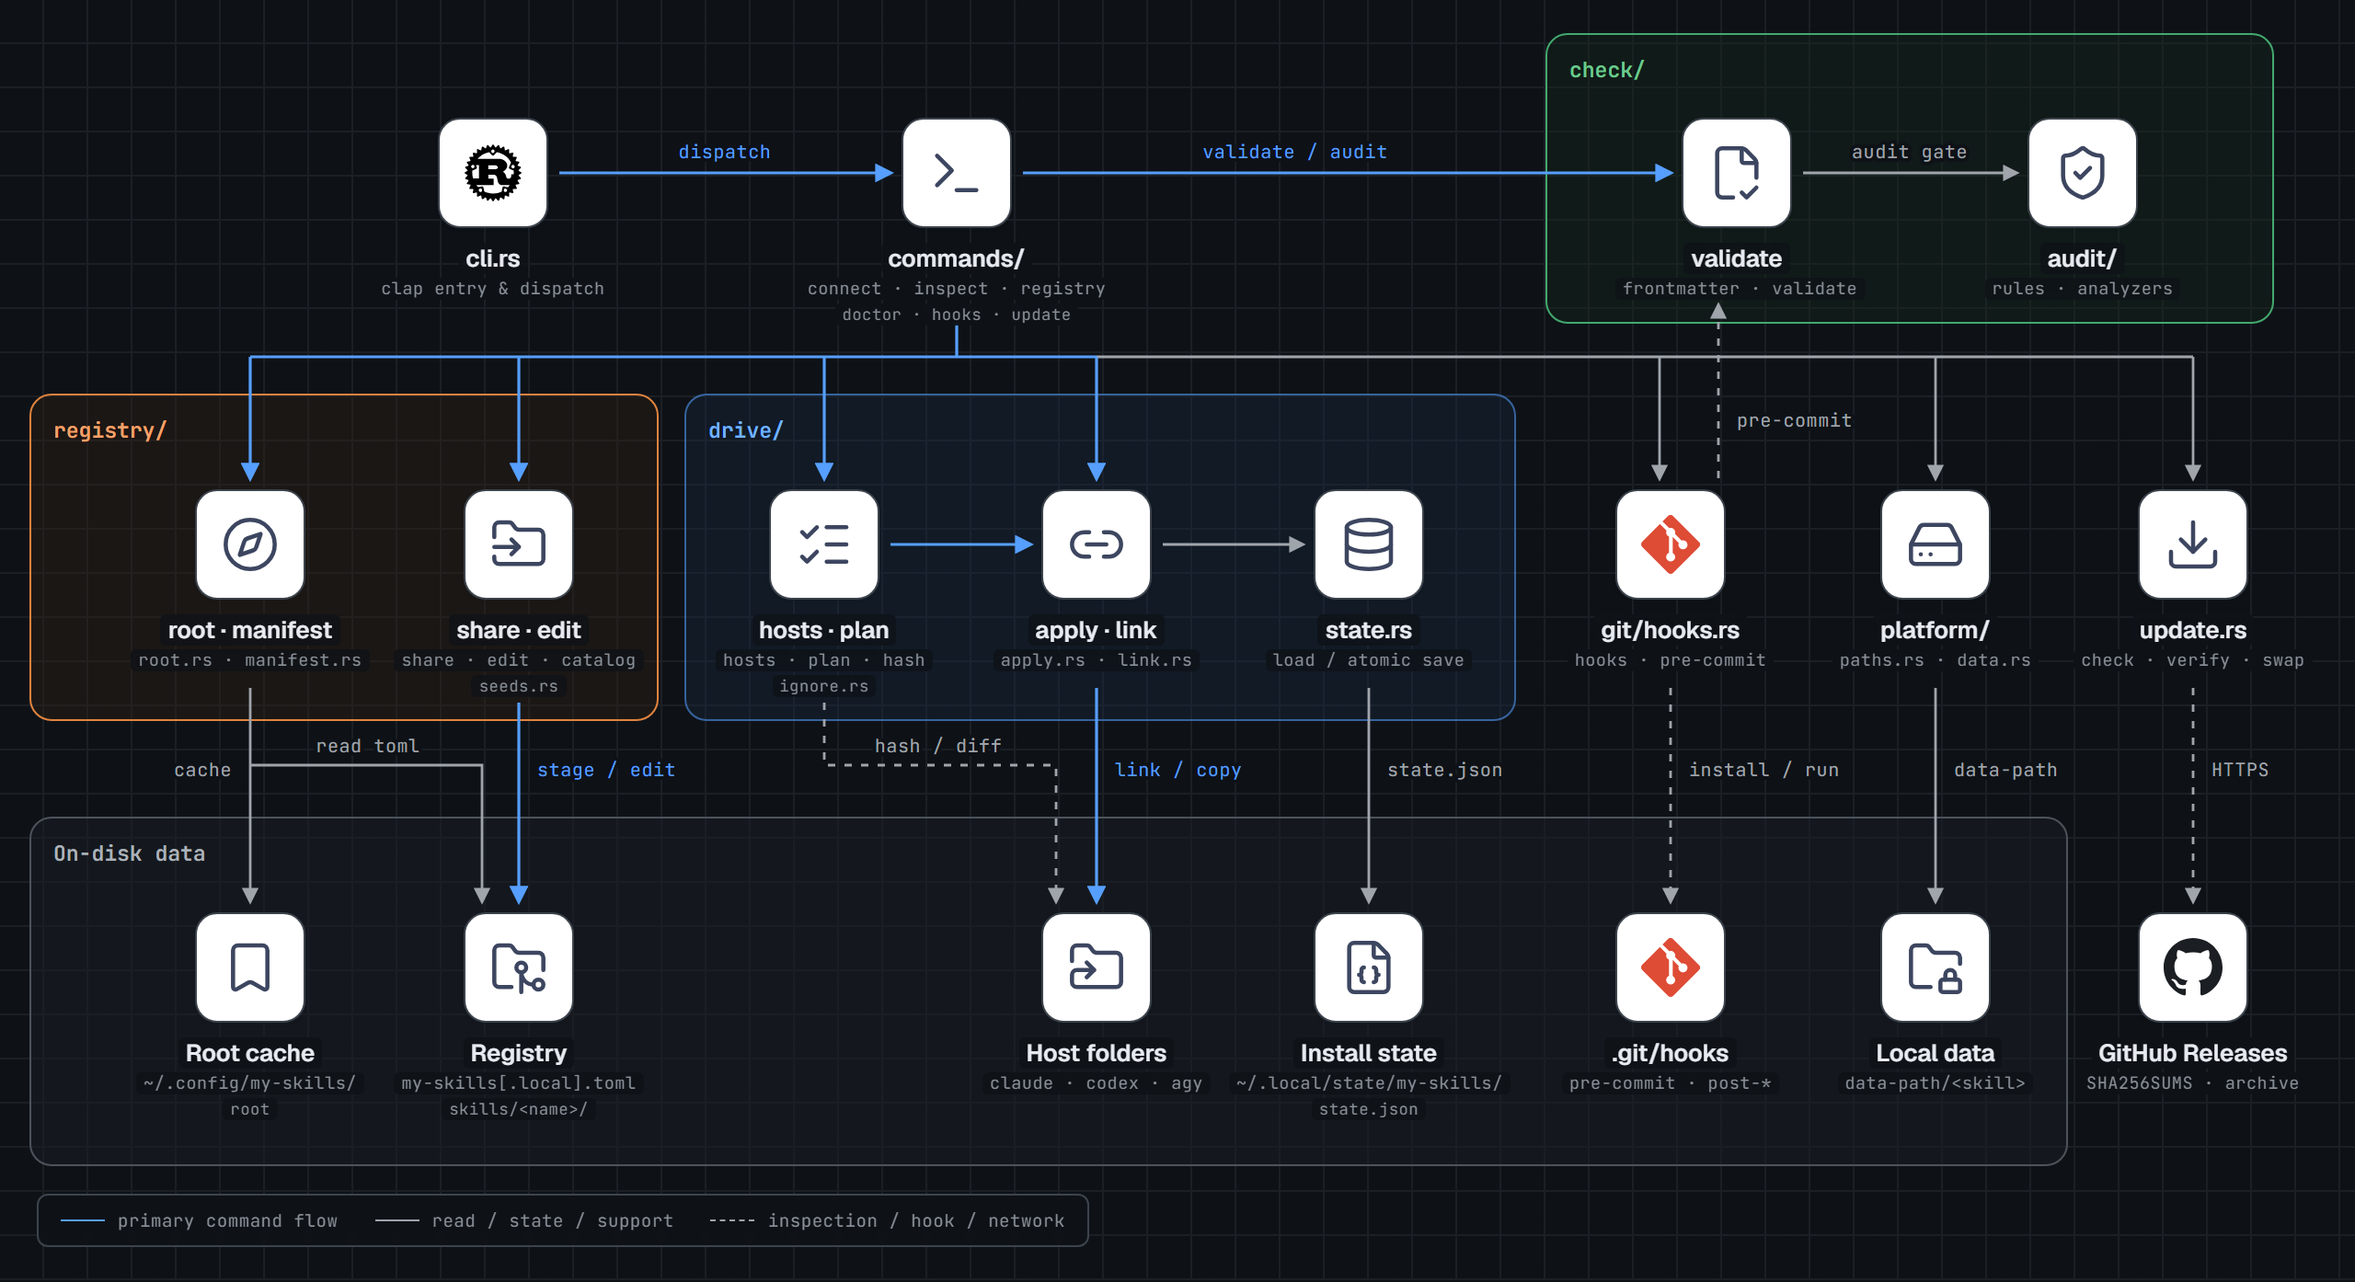
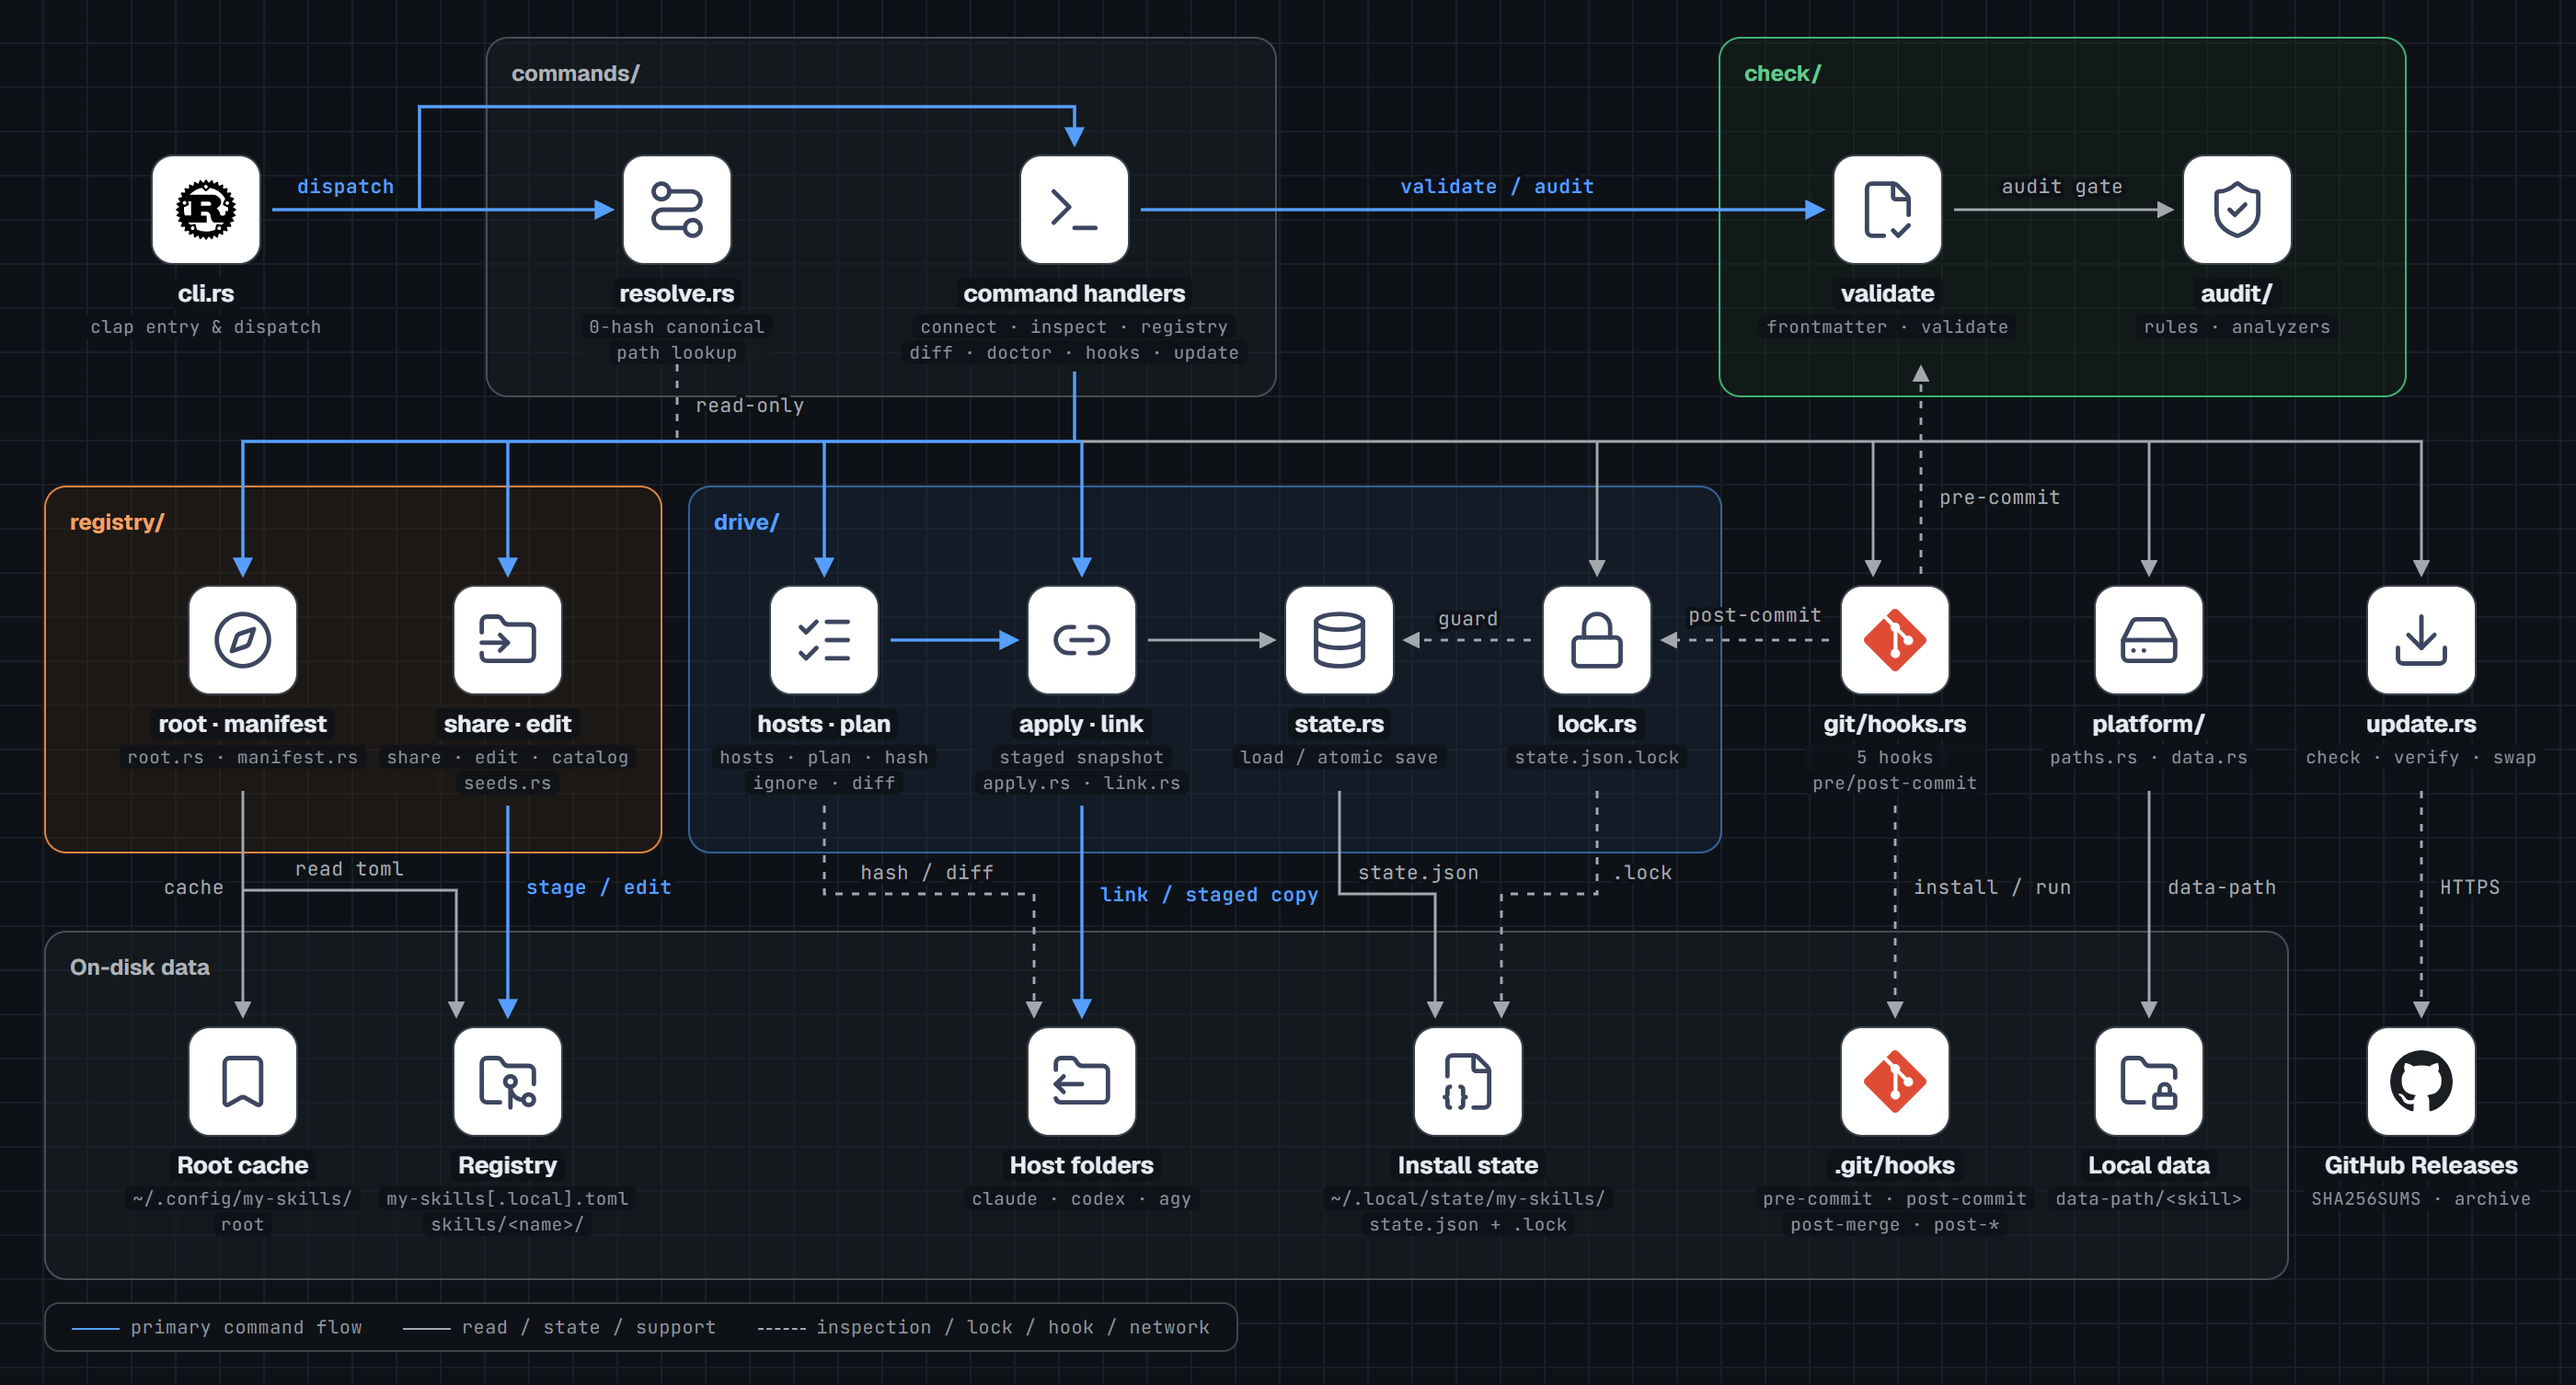
docs: draw the system map overview and v1.3 architecture with stack-diagram

diff --git a/docs/system-map.ko.md b/docs/system-map.ko.md
@@ -35,55 +35,10 @@
 
 ## 2. 전체 그림
 
-```mermaid
-flowchart LR
-  subgraph GH["GitHub (공개)"]
-    TOOL["툴 저장소<br/>Rust 소스 + 시드 스킬"]
-    REL["Releases<br/>OS별 바이너리"]
-  end
-
-  subgraph PC["내 컴퓨터"]
-    CLI["my-skills CLI"]
-
-    subgraph REG["레지스트리 ~/my-agent-skills (Git)"]
-      MAN["my-skills.toml<br/>my-skills.local.toml"]
-      SK["skills/스킬이름/<br/>정본"]
-      HK[".git/hooks<br/>hook 5개"]
-    end
-
-    subgraph HOSTS["호스트 폴더"]
-      HC["~/.claude/skills"]
-      HX["~/.agents/skills"]
-      HA["~/.gemini/config/skills"]
-    end
-
-    subgraph LOCAL["기기 전용 상태"]
-      ST["state.json<br/>설치 기록"]
-      RC["root<br/>활성 레지스트리"]
-    end
-
-    AC["Claude Code"]
-    AX["Codex"]
-    AA["Antigravity CLI"]
-  end
-
-  PRIV["private 원격<br/>레지스트리 백업"]
-  OTHER["다른 기기<br/>(같은 구조)"]
-
-  TOOL -->|"태그 → CI 빌드"| REL
-  REL -->|"설치 · my-skills update"| CLI
-  CLI -->|"init-registry 때 시드 복사"| SK
-  CLI -->|"읽기"| MAN
-  CLI -->|"link 또는 copy"| HOSTS
-  CLI -->|"기록"| ST
-  CLI -->|"기록"| RC
-  HK -->|"커밋 · pull 때 호출"| CLI
-  HC --> AC
-  HX --> AX
-  HA --> AA
-  SK <-->|"git push / pull"| PRIV
-  PRIV <-->|"git pull → hook이 sync"| OTHER
-```
+<picture>
+  <source media="(prefers-color-scheme: dark)" srcset="images/system-map-overview-dark.png">
+  <img alt="my-skills 전체 그림: 공개 GitHub의 툴 저장소와 Releases에서 my-skills CLI를 받아 설치·업데이트하고, 레지스트리 ~/my-agent-skills(my-skills.toml, skills/ 정본, .git/hooks 5개)를 기준으로 Claude Code(~/.claude/skills), Codex(~/.agents/skills), Antigravity CLI(~/.gemini/config/skills) 호스트 폴더에 link 또는 copy로 연결하며, 기기 전용 상태(state.json·.lock, root 캐시)를 기록하고 private 원격을 통해 다른 기기와 Git으로 동기화하는 구조." src="images/system-map-overview.png">
+</picture>
 
 세 가지만 기억하면 된다.
 

diff --git a/docs/architecture.md b/docs/architecture.md
@@ -8,7 +8,7 @@ A Korean walkthrough with diagrams of the whole system (glossary, disk layout, c
 
 <picture>
   <source media="(prefers-color-scheme: dark)" srcset="images/architecture-dark.png">
-  <img alt="my-skills internal architecture: cli.rs dispatches to commands/, which coordinate src/registry/, src/drive/, src/check/, src/git/hooks.rs, src/platform/, and src/update.rs to read and write the active root cache, registry files, host skill folders, install state, .git/hooks, machine-local data, and GitHub Releases." src="images/architecture.png">
+  <img alt="my-skills internal architecture: cli.rs dispatches to commands/ (resolve.rs and command handlers), which coordinate src/registry/, src/drive/ (hosts/plan, staged copy snapshots in apply/link, state.rs, and drive/lock.rs for state.json.lock), src/check/, src/git/hooks.rs (5 hooks including pre-commit and post-commit), src/platform/, and src/update.rs to read and write the active root cache, registry files, host skill folders, install state and lock, .git/hooks, machine-local data, and GitHub Releases." src="images/architecture.png">
 </picture>
 
 ## Modules
